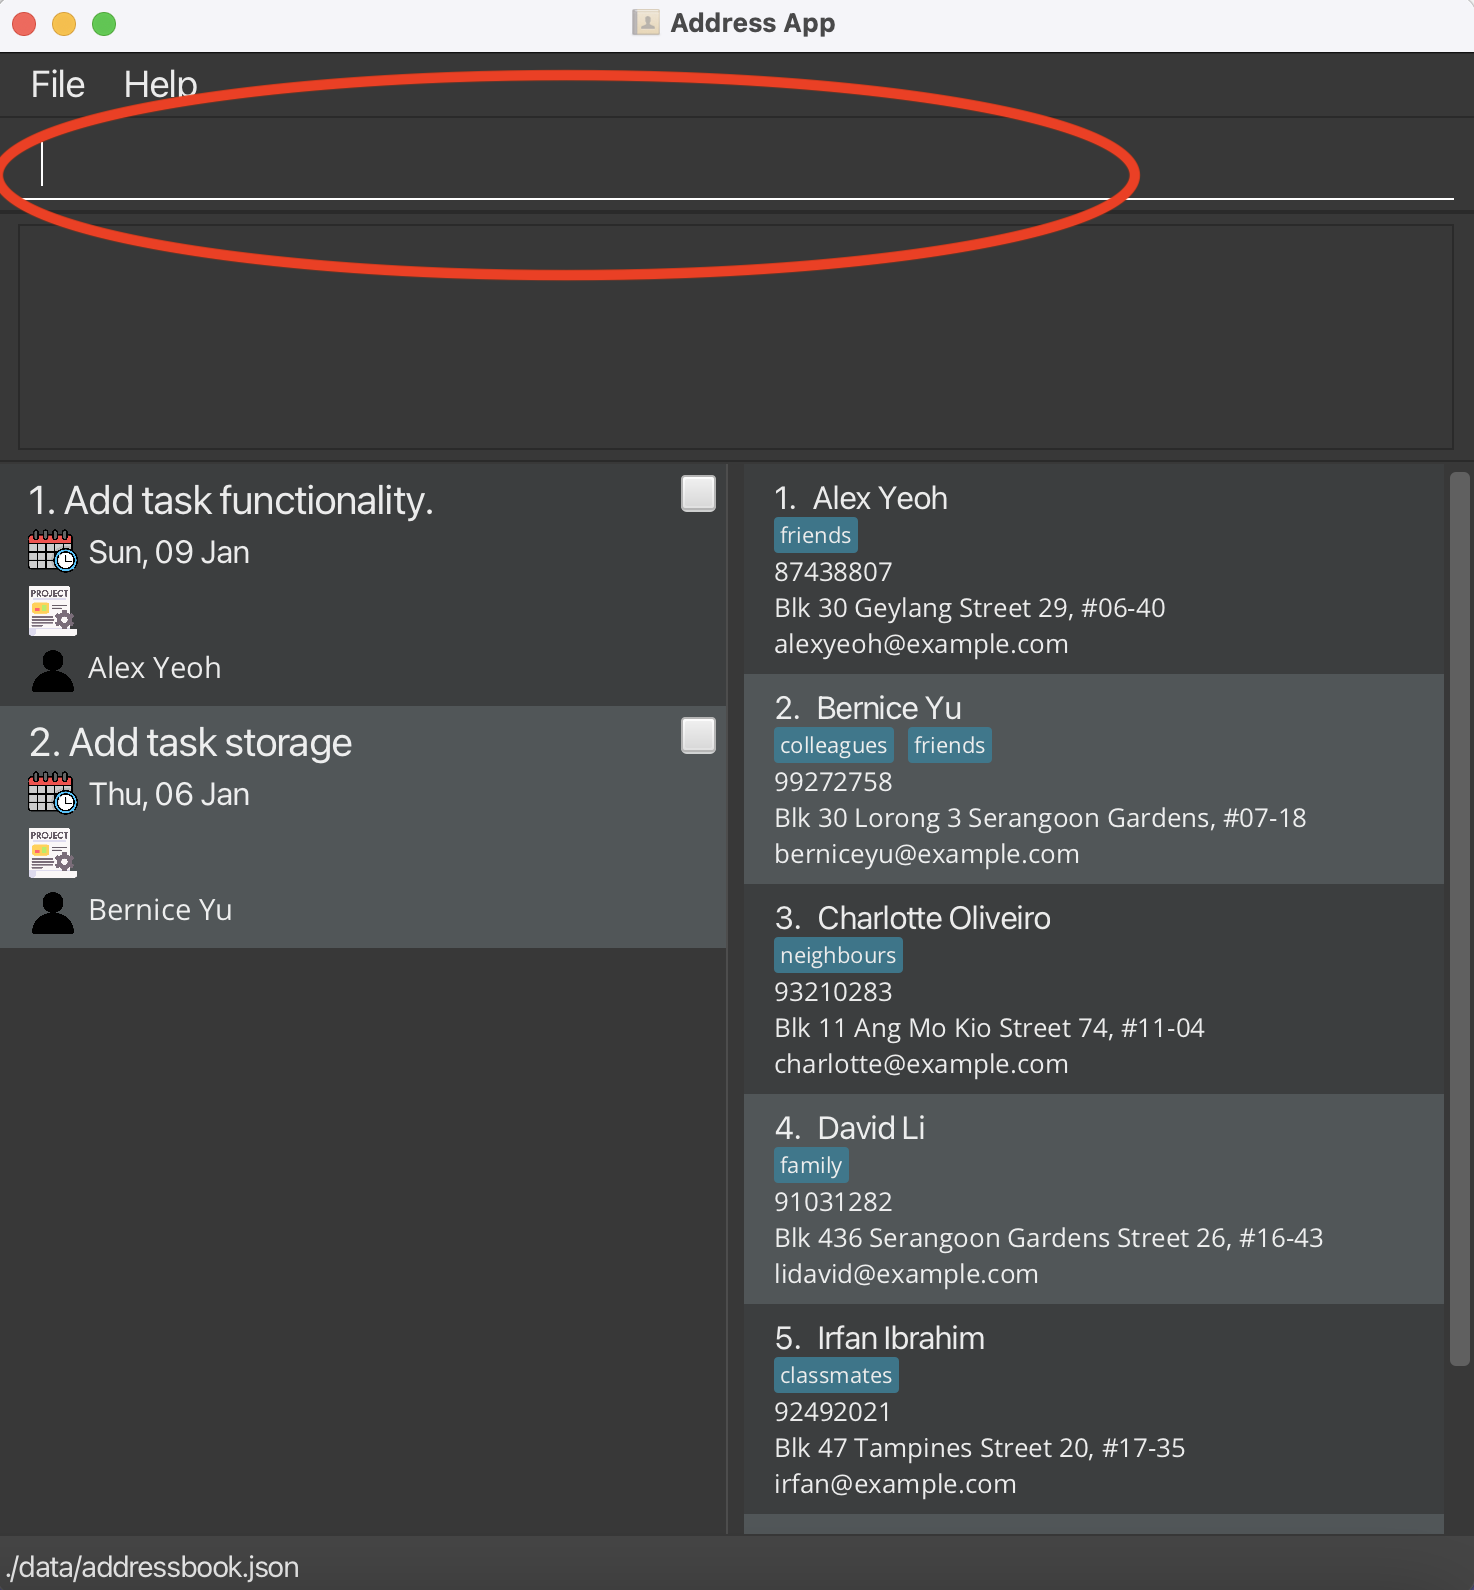
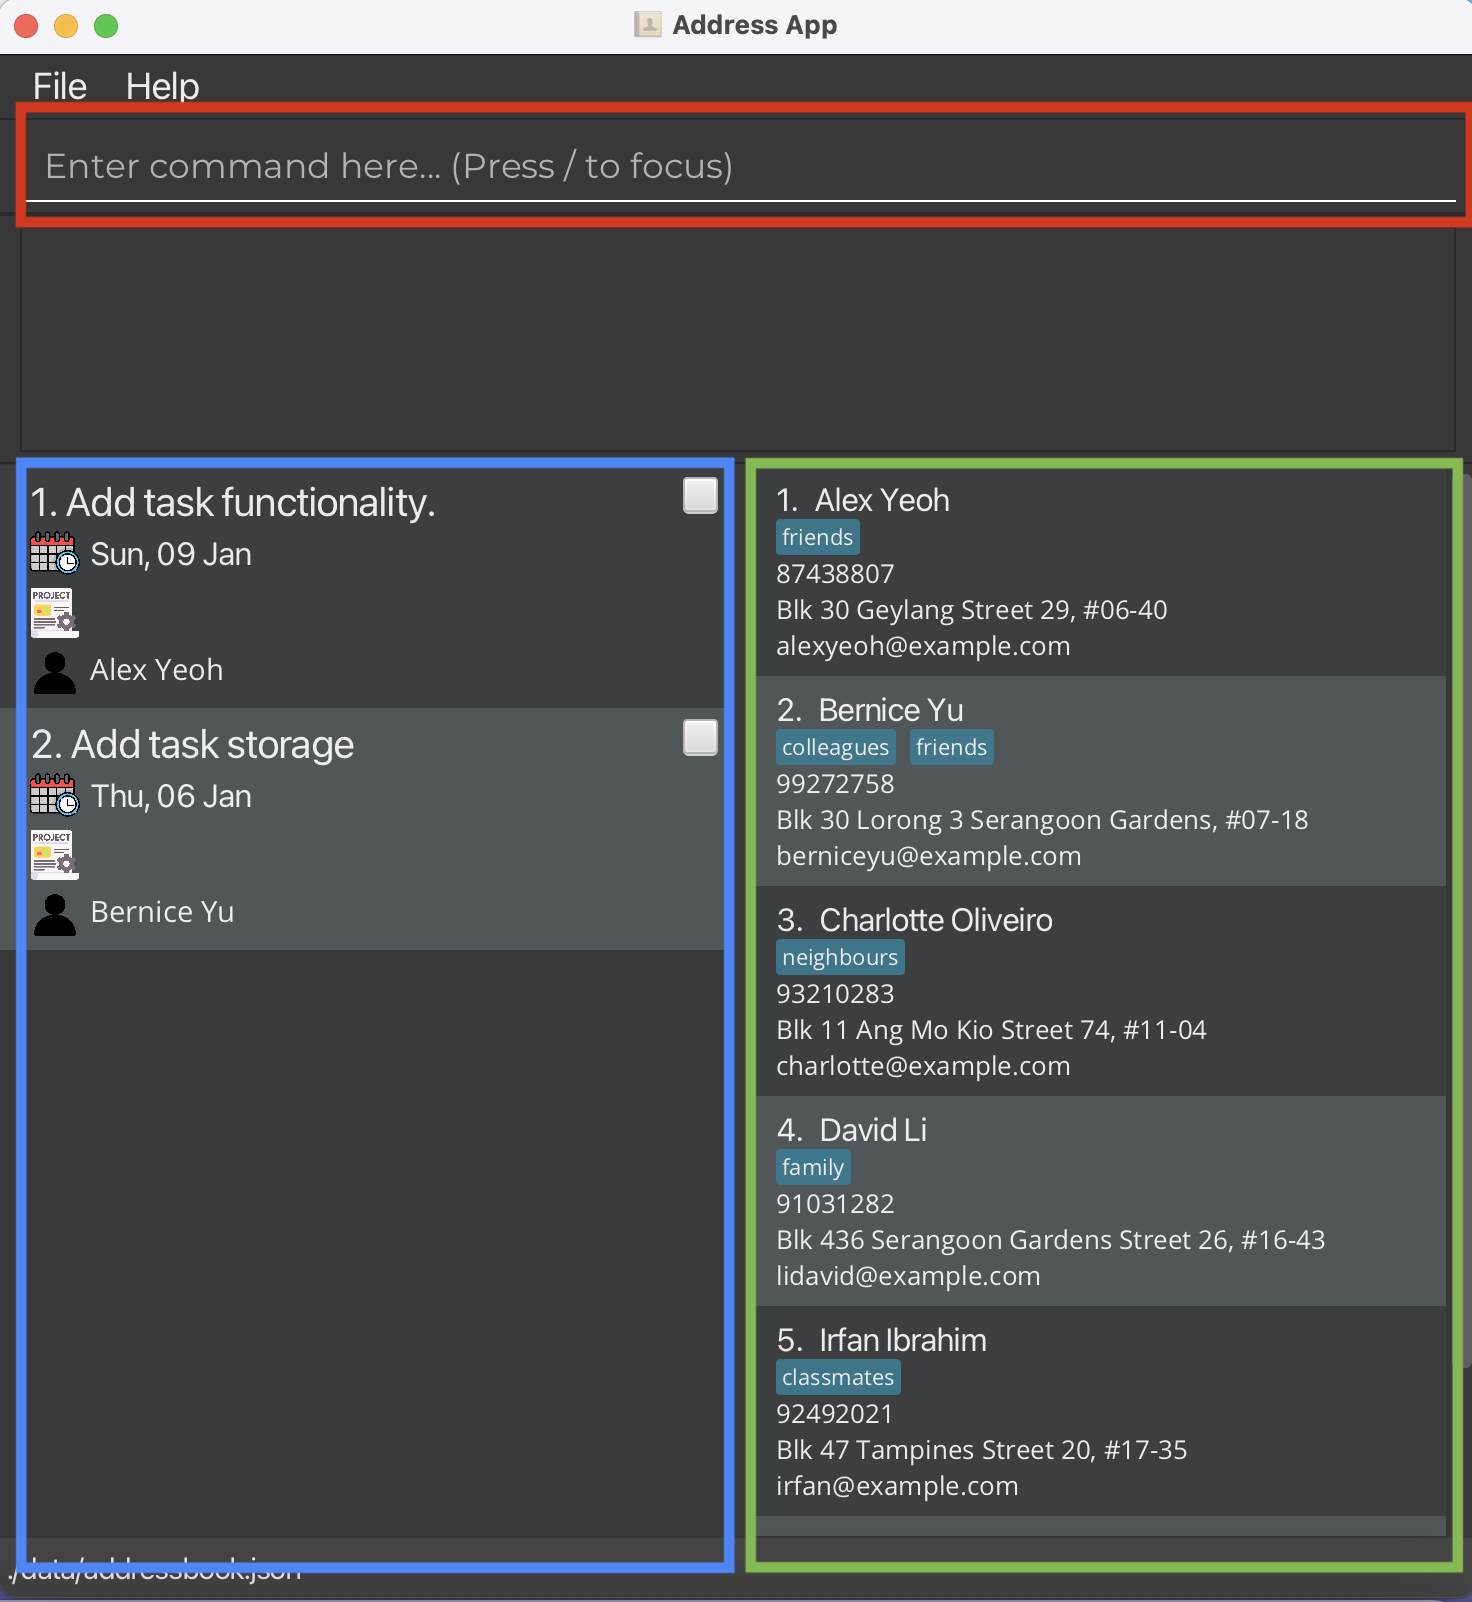
docs: Update UG

Changed region(s): [[0.0, 0.2774, 1.0, 1.0], [0.0, 0.0, 1.0, 0.1849]]

diff --git a/docs/UserGuide.md b/docs/UserGuide.md
@@ -47,6 +47,9 @@ Click [here](#tutorial-for-cli) to learn more about what is CLI.
 click [here](#tutorial-for-cli) if you are not familiar with CLI.
 * **GUI** : [Graphical User Interface](https://en.wikipedia.org/wiki/Graphical_user_interface)
 * **Home Folder** : The folder/directory where Arrow stores all information.
+* **Main Window** : The main window of the application that shows the list of students.
+* **Command Box** : The text box where you can enter commands.
+* **Extraneous Parameters** : The specified  command contains more positional parameters than is allowed.
 
 --------------------------------------------------------------------------------------------------------------------
 
@@ -57,11 +60,16 @@ click [here](#tutorial-for-cli) if you are not familiar with CLI.
 2. Download the latest `arrow.jar` from [here](https://github.com/AY2223S1-CS2103T-T08-2/tp/releases).
 
 3. Copy the file to the folder you want to use as the _home folder_ for Arrow.
+4. Double-click the file to start the app. The _GUI_ or _main window_ should appear in a few seconds. 
+Note how the app contains some sample data. If the app does not start and an `error` appears on your screen, do refer to the [FAQ](#faq).<br>
 
-4. Double-click the file to start the app. The GUI similar to the below should appear in a few seconds. Note how the app contains some sample data. If the app does not start and an error appears on your screen, do refer to the [FAQ](#faq).<br>
-   ![Ui](images/Ui.png)
+5. The picture below shows the _main window_ of **Arrow**.
+* The command box is boxed in <span style="color:red">*red*</span>, where you enter commands. 
+* The task panel list is boxed in <span style="color:blue">*blue*</span>, where you can see the current task list.
+* The address book is boxed in <span style="color:green">*green*</span>, where you can see the contact information of your team members.
+![Ui](images/Ui.png)
 
-5. Type the command in the command box and press Enter to execute it. e.g. typing **`help`** and pressing Enter will open the help window.<br>
+6. Type the command in the _command box_ and press Enter to execute it. e.g. typing **`help`** and pressing Enter will open the help window.<br>
    Some example commands you can try:
 
    * **`list`** : Lists all contacts.
@@ -76,13 +84,15 @@ click [here](#tutorial-for-cli) if you are not familiar with CLI.
 
    * **`exit`** : Exits the app.
 
-6. Read the [Notes](#notes) on the command format
-7. Refer to [Address Book](#address-book-commands) for details of AddressBook commands.
-8. Refer to [Task Management](#task-management-commands) for details of Task commands.
+7. Read the [Notes](#notes) to know more about the formats of commands.
+8. Refer to [Address Book](#address-book-commands) for details of AddressBook commands. 
+9. Refer to [Task Management](#task-management-commands) for details of Task commands.
 
 --------------------------------------------------------------------------------------------------------------------
 
 ## Notes
+
+If you are new to **Arrow**, here provides some tips for you to enter commands efficiently.
 
 <div markdown="block" class="alert alert-info">
 
@@ -103,7 +113,7 @@ click [here](#tutorial-for-cli) if you are not familiar with CLI.
 * If a parameter is expected only once in the command, but you specified it multiple times, only the last occurrence of the parameter will be taken.<br>
   e.g. if you specify `p/12341234 p/56785678`, only `p/56785678` will be taken.
 
-* Extraneous parameters for commands that do not take in parameters (such as `help`, `list`, `exit` and `clear`) will be ignored.<br>
+* _Extraneous parameters_ for commands that do not take in parameters (such as `help`, `list`, `exit` and `clear`) will be ignored.<br>
   e.g. if the command specifies `help 123`, it will be interpreted as `help`.
 
 </div>
@@ -401,6 +411,13 @@ _Details coming soon ..._
 
 **Q**: How do I check my Java version?<br>
 **A**: Open Terminal if you're on Mac or Command Prompt if you're on Windows. Type "java -version" and press Enter.
+
+**Q**: How do I install `java 11`?<br>
+**A**: Download `java 11` to your computer via this [link](https://www.oracle.com/java/technologies/downloads/).
+
+**Q**: If I already have java on my computer, but not `java 11`, how do I switch java version to `java 11`?<br>
+**A**: For MacOS user, check this [tutorial](https://medium.com/@devkosal/switching-java-jdk-versions-on-macos-80bc868e686a).
+For Windows user, check this [tutorial](https://www.happycoders.eu/java/how-to-switch-multiple-java-versions-windows/).
 
 **Q**: What if the app does not open when I double-click it?<br>
 **A**: Follow the steps listed to open the app.
